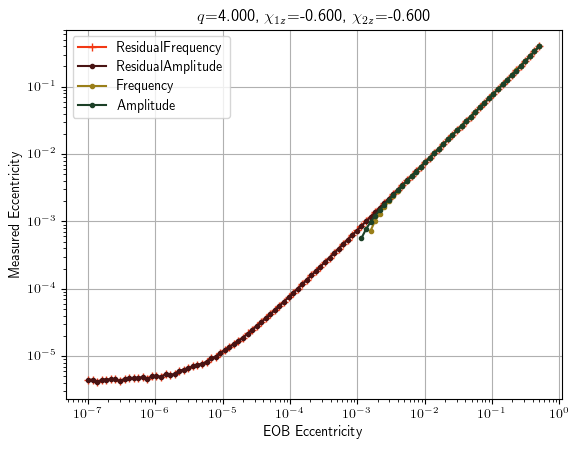
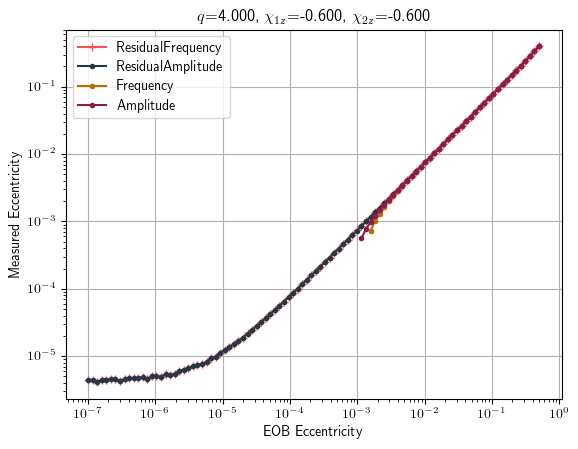
update figs

diff --git a/measureEccentricity/plot_settings.py b/measureEccentricity/plot_settings.py
@@ -22,15 +22,10 @@ colors_gb_36 = GrandBudapest3_6.mpl_colors
 colors_zs_5 = Zissou_5.mpl_colors
 colors_ry_14 = Royal1_4.mpl_colors
 
-colorsList = [colors_zs_5[2],
-              colors_gb_14[2],
-              colors_gb_45[3],
-              colors_aq_15[1],
-              colors_zs_5[0],
+colorsList = [colors_gb_14[1],
+              colors_gb_36[1],
+              colors_gb_45[0],
               colors_gb_55[1],
-              colors_aq_15[0],
-              colors_aq_15[0],
-              colors_dj_25[3],
               colors_dj_25[1]]
 
 
